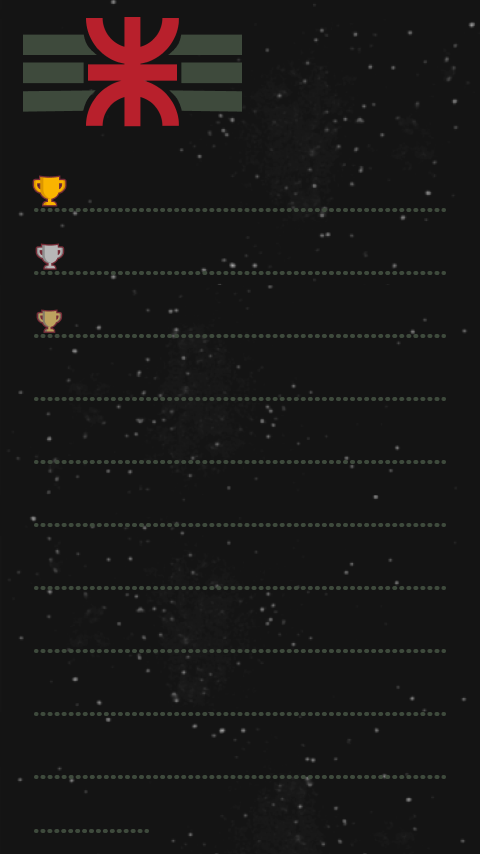
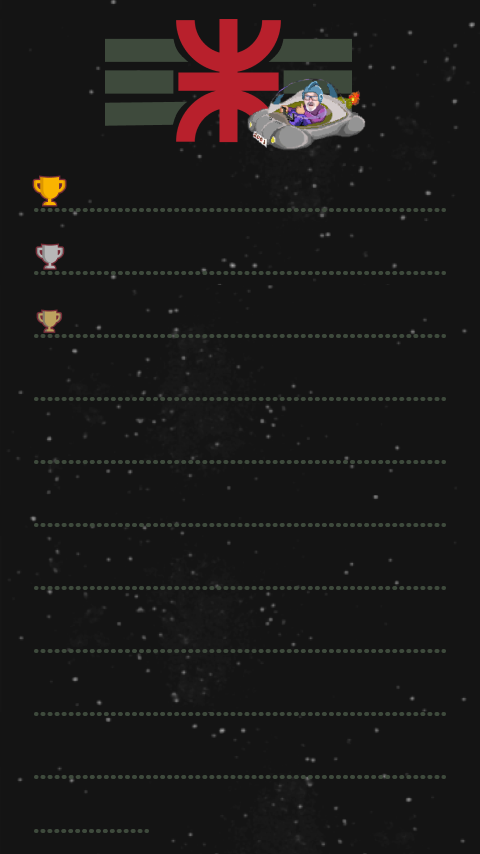
Added textures to max points

Changed region(s): [[0.0312, 0.0, 0.7812, 0.1827]]

diff --git a/Manager.cpp b/Manager.cpp
@@ -133,6 +133,7 @@ const bool Manager::Ventana_Esta_Abierta() const
 
 void Manager::Actualizar()
 {
+	menu_niveles[3].setPosition(186, 742);
 	MoverKlooster();
 	
 	//Siempre que haya un evento se mantiene el While
@@ -477,10 +478,17 @@ bool Manager::IngresarNombre(Jugadores& _jugador)
 
 void Manager::RankingDePuntajes()
 {
+	sf::Vector2f nombre(70.f, 180.f);
+	sf::Vector2f puntaje(370.f, nombre.y);
+	float separacion = 63.f;
+
+	menu_niveles[3].setPosition(38, 807);
+
+	sf::Color caqui = sf::Color(62, 74, 60);
 
 	//Creo los textos y les paso los nombres de los TRES primeros jugadores y sus respectivos puntajes
-	sf::Text PodioNombres[3];
-	sf::Text PodioPuntajes[3];
+	sf::Text *PodioNombres;
+	sf::Text *PodioPuntajes;
 
 	sf::Texture textura;
 	if (!textura.loadFromFile("resources/max_points.png"))
@@ -489,82 +497,78 @@ void Manager::RankingDePuntajes()
 	}
 	sf::Sprite background(textura);
 
-	sf::Text titulo;
-	titulo.setFont(font);
-	titulo.setFillColor(sf::Color::Green);
-	titulo.setString("Ranking");
-	titulo.setCharacterSize(35);
-	titulo.setPosition(66, 20);
-
-	sf::Text titulo2;
-	titulo2.setFont(font);
-	titulo2.setFillColor(sf::Color::Green);
-	titulo2.setString("Maximos Puntajes");
-	titulo2.setCharacterSize(35);
-	titulo2.setPosition(40, 50);
-
 	//CREA UN VECTOR DINAMICO CON TODOS LOS REGISTROS DE JUGADORES
 	ArchivoJugadores archivo;
 	int cantidad_de_registros = archivo.getCantidadRegistros();
 
+	PodioNombres = new sf::Text[cantidad_de_registros];
+	PodioPuntajes = new sf::Text[cantidad_de_registros];
+
 	if (cantidad_de_registros != 0)
 	{
-		std::cout << "cantidad de registros:" << cantidad_de_registros << std::endl;
-
 		Jugadores *vJugadores;
 
 		vJugadores = new Jugadores[cantidad_de_registros];
 
 		for (int i = 0; i < cantidad_de_registros; i++)
 		{
-			std::cout << "Entro al for " << std::endl;
 			vJugadores[i] = archivo.leer(i);
-			std::cout << "Termino el for " << std::endl;
 		}
 
 		//ORDENA EL VECTOR DE MAYOR A MENOR PUNTAJE
 		OrdenarJugadoresxPuntos(vJugadores, cantidad_de_registros);
 
+		//MENSAJES DE NOMBRES Y PUNTOS
+		for (int i = 0; i < cantidad_de_registros; i++)
+		{
+			if (i == 0)
+			{
+				std::cout << "entro en if " << std::endl;
+				PodioNombres[i].setFont(font);
+				PodioNombres[i].setFillColor(caqui);
+				PodioNombres[i].setString(vJugadores[i].get_str_nombre());
+				PodioNombres[i].setCharacterSize(25);
+				PodioNombres[i].setPosition(nombre.x, nombre.y);
 
-		//MENSAJES DE NOMBRES
+				PodioPuntajes[i].setFont(font);
+				PodioPuntajes[i].setFillColor(caqui);
+				PodioPuntajes[i].setString(std::to_string(vJugadores[i].get_puntaje()));
+				PodioPuntajes[i].setCharacterSize(25);
+				PodioPuntajes[i].setPosition(puntaje.x, puntaje.y);
+			}
+			else if (i < 3)
+			{
+				PodioNombres[i].setFont(font);
+				PodioNombres[i].setFillColor(caqui);
+				PodioNombres[i].setString(vJugadores[i].get_str_nombre());
+				PodioNombres[i].setCharacterSize(25);
+				PodioNombres[i].setPosition(nombre.x, nombre.y + separacion);
 
-		PodioNombres[0].setFont(font);
-		PodioNombres[0].setFillColor(sf::Color::Cyan);
-		PodioNombres[0].setString(vJugadores[0].get_str_nombre());
-		PodioNombres[0].setCharacterSize(35);
-		PodioNombres[0].setPosition(20, 100);
+				PodioPuntajes[i].setFont(font);
+				PodioPuntajes[i].setFillColor(caqui);
+				PodioPuntajes[i].setString(std::to_string(vJugadores[i].get_puntaje()));
+				PodioPuntajes[i].setCharacterSize(25);
+				PodioPuntajes[i].setPosition(puntaje.x, puntaje.y + separacion);
 
-		PodioNombres[1].setFont(font);
-		PodioNombres[1].setFillColor(sf::Color::Green);
-		PodioNombres[1].setString(vJugadores[1].get_str_nombre());
-		PodioNombres[1].setCharacterSize(35);
-		PodioNombres[1].setPosition(20, 130);
+				separacion += separacion;
+			}
+			else
+			{
+				PodioNombres[i].setFont(font);
+				PodioNombres[i].setFillColor(caqui);
+				PodioNombres[i].setString(vJugadores[i].get_str_nombre());
+				PodioNombres[i].setCharacterSize(25);
+				PodioNombres[i].setPosition(nombre.x - 35, nombre.y + separacion);
 
-		PodioNombres[2].setFont(font);
-		PodioNombres[2].setFillColor(sf::Color::Cyan);
-		PodioNombres[2].setString(vJugadores[2].get_str_nombre());
-		PodioNombres[2].setCharacterSize(35);
-		PodioNombres[2].setPosition(20, 160);
+				PodioPuntajes[i].setFont(font);
+				PodioPuntajes[i].setFillColor(caqui);
+				PodioPuntajes[i].setString(std::to_string(vJugadores[i].get_puntaje()));
+				PodioPuntajes[i].setCharacterSize(25);
+				PodioPuntajes[i].setPosition(puntaje.x, puntaje.y + separacion);
 
-		//MENSAJES DE PUNTOS
-
-		PodioPuntajes[0].setFont(font);
-		PodioPuntajes[0].setFillColor(sf::Color::Cyan);
-		PodioPuntajes[0].setString(std::to_string(vJugadores[0].get_puntaje()));
-		PodioPuntajes[0].setCharacterSize(35);
-		PodioPuntajes[0].setPosition(60, 100);
-
-		PodioPuntajes[1].setFont(font);
-		PodioPuntajes[1].setFillColor(sf::Color::Green);
-		PodioPuntajes[1].setString(std::to_string(vJugadores[1].get_puntaje()));
-		PodioPuntajes[1].setCharacterSize(35);
-		PodioPuntajes[1].setPosition(60, 130);
-
-		PodioPuntajes[2].setFont(font);
-		PodioPuntajes[2].setFillColor(sf::Color::Cyan);
-		PodioPuntajes[2].setString(std::to_string(vJugadores[2].get_puntaje()));
-		PodioPuntajes[2].setCharacterSize(35);
-		PodioPuntajes[2].setPosition(60, 160);
+				separacion += separacion;
+			}
+		}
 
 		delete[] vJugadores;
 
@@ -594,8 +598,7 @@ void Manager::RankingDePuntajes()
 				}
 			}
 			this->ventana->draw(background);
-			this->ventana->draw(titulo);
-			this->ventana->draw(titulo2);
+			this->ventana->draw(menu_niveles[3]);
 
 			for (int i = 0; i < cantidad_de_registros; i++)
 			{

diff --git a/Juego.cpp b/Juego.cpp
@@ -971,8 +971,8 @@ void Juego::segundo_nivel(Jugadores& _jugador)
 
             sf::Time now = clock.getElapsedTime();
 
-            printf("%f \n", now.asSeconds());
-
+            _jugador.set_puntaje(puntaje_total);
+            _jugador.set_nivel(2);
 
             if (now.asSeconds() >= fDelay)
             {
@@ -988,8 +988,6 @@ void Juego::segundo_nivel(Jugadores& _jugador)
         this->ventana.display();
     }
 
-    _jugador.set_puntaje(puntaje_total);
-    _jugador.set_nivel(2);
     ArchivoJugadores archivo;
     if (archivo.guardar(_jugador))
     {
@@ -1469,8 +1467,8 @@ void Juego::tercer_nivel(Jugadores& _jugador) {
 
             sf::Time now = clock.getElapsedTime();
 
-            printf("%f \n", now.asSeconds());
-
+            _jugador.set_puntaje(puntaje_total);
+            _jugador.set_nivel(3);
 
             if (now.asSeconds() >= fDelay)
             {
@@ -1488,8 +1486,6 @@ void Juego::tercer_nivel(Jugadores& _jugador) {
        
     }
     
-    _jugador.set_puntaje(puntaje_total);
-    _jugador.set_nivel(3);
 
     ArchivoJugadores archivo;
     if (archivo.guardar(_jugador))

diff --git a/ArchivoJugadores.cpp b/ArchivoJugadores.cpp
@@ -43,33 +43,22 @@ bool ArchivoJugadores::guardar(Jugadores reg)
 
 Jugadores ArchivoJugadores::leer(int nroRegistro)
 {
-    std::cout << "Entro a Leer " << std::endl;
     Jugadores aux;
 
-    std::cout << "Paso Jugadores aux " << std::endl;
+    FILE* pointer = fopen(_ruta.c_str(), "rb");
 
-    FILE* p = fopen(_ruta.c_str(), "rb");
 
-    std::cout << "Paso fopen " << std::endl;
-
-    if (p == NULL)
+    if (pointer == NULL)
     {
         return aux;
     }
 
-    std::cout << "Paso if(NULL) " << std::endl;
 
-    fseek(p, nroRegistro * sizeof(Jugadores), SEEK_SET);
+    fseek(pointer, nroRegistro * sizeof(Jugadores), SEEK_SET);
 
-    std::cout << "Paso fseek " << std::endl;
+    fread(&aux, sizeof(Jugadores), 1, pointer);
 
-    fread(&aux, sizeof(Jugadores), 1, p);
-
-    std::cout << "Paso fread " << std::endl;
-
-    fclose(p);
-
-    std::cout << "Llego al final de leer " << std::endl;
+    fclose(pointer);
 
     return aux;
 }
